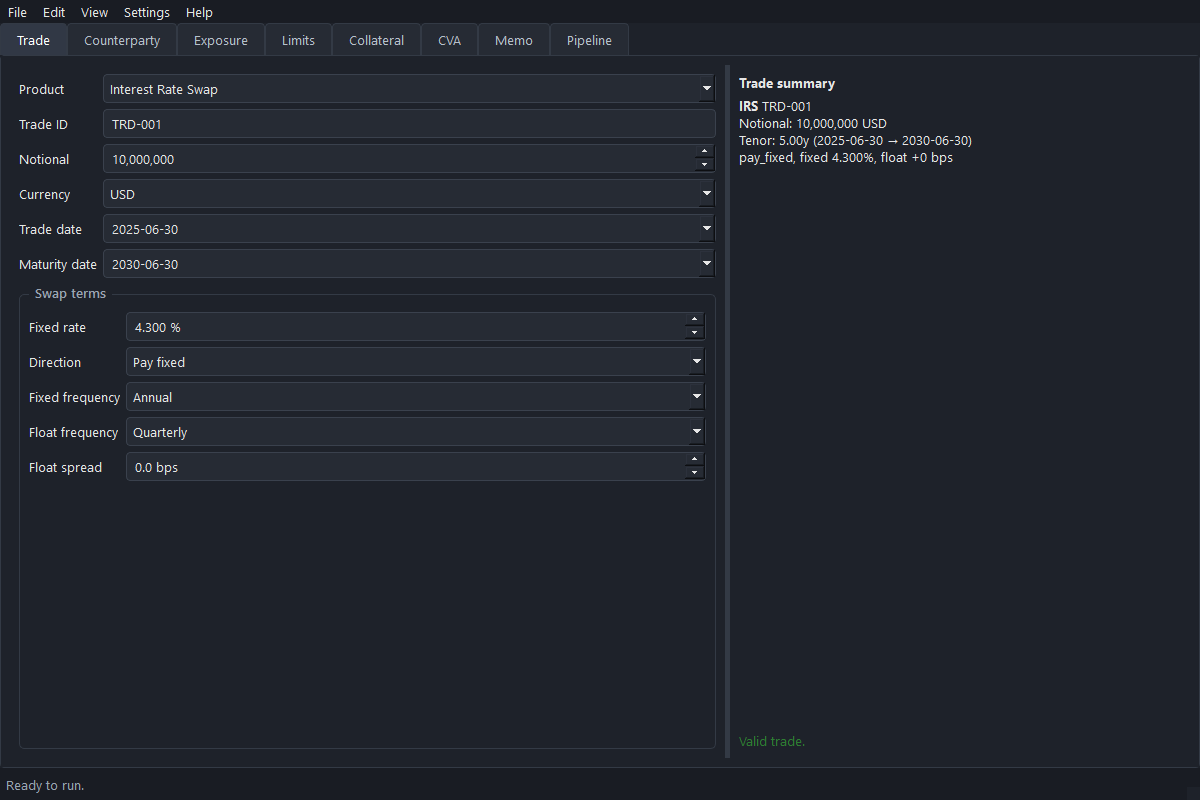
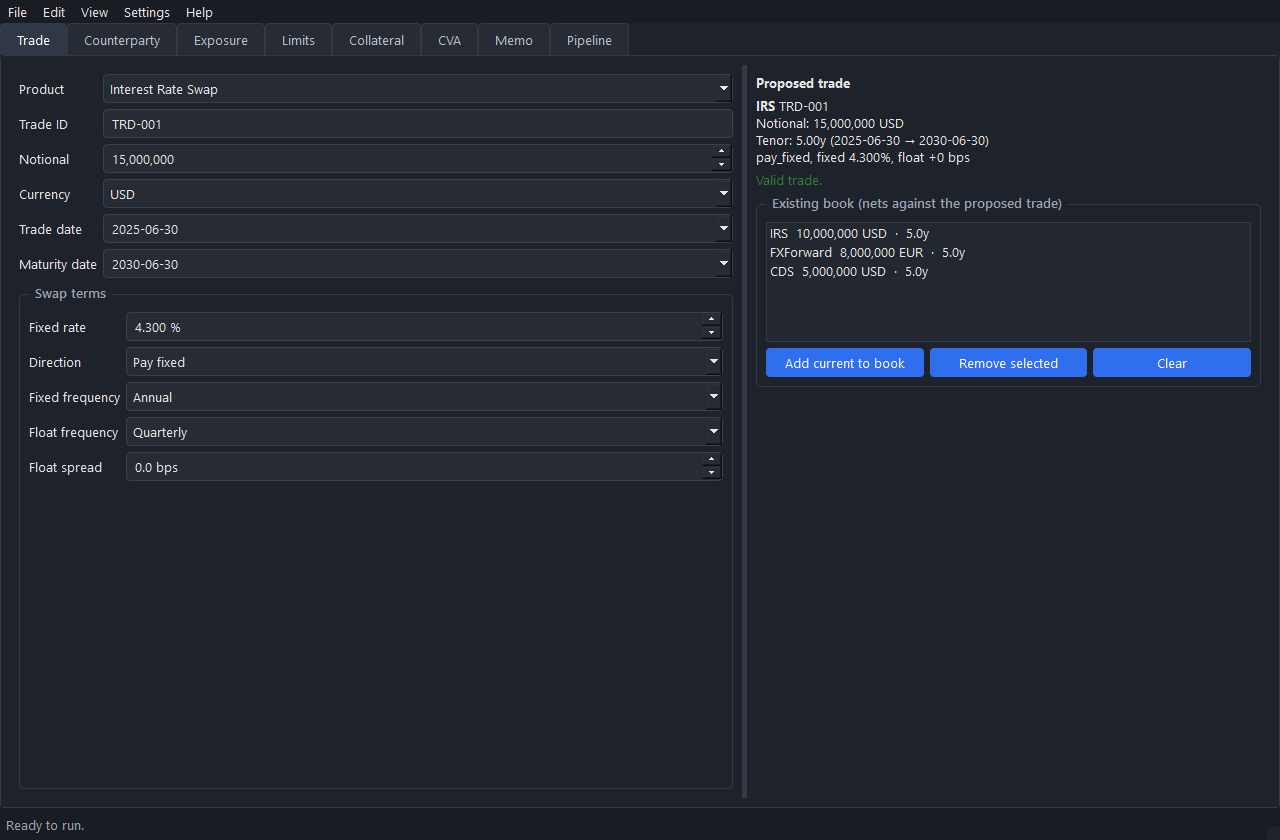
Add v2 roadmap and the existing-trades book (netting made real)
Add ROADMAP.md documenting the v2 plan toward a packaged release (portfolio book
+ scenario stress, learn mode, editable data + live financials, packaging). Ship
the first item: an existing-trades book. AppState gains a book and computes the
existing netting set from it; the Trade tab gets a book panel (add current /
remove / clear). The proposed trade now nets against a real book, so the netting
benefit and incremental peak-PFE limit logic (already built and tested) are
finally exercisable end to end from the UI. Update the Trade screenshot to show
the book.

Tests: AppState book builds the existing set; the Trade tab adds/removes book
entries; run inputs carry the book as the existing set.

Changed region(s): [[0.0, 0.0625, 0.9867, 0.9375], [0.0, 0.0, 0.5242, 0.0625], [0.0, 0.9688, 0.0617, 1.0]]

diff --git a/src/duw/ui/tabs/trade_tab.py b/src/duw/ui/tabs/trade_tab.py
@@ -26,6 +26,8 @@ from PySide6.QtWidgets import (
     QHBoxLayout,
     QLabel,
     QLineEdit,
+    QListWidget,
+    QPushButton,
     QSplitter,
     QStackedWidget,
     QVBoxLayout,
@@ -81,7 +83,10 @@ class TradeTab(QWidget):
         super().__init__()
         self._app_state = app_state
         self._build_ui()
+        if app_state is not None:
+            app_state.bookChanged.connect(self._refresh_book)
         self._refresh()
+        self._refresh_book()
 
     # -- construction ------------------------------------------------------ #
     def _build_ui(self) -> None:
@@ -126,18 +131,19 @@ class TradeTab(QWidget):
 
         summary_panel = QWidget()
         summary_layout = QVBoxLayout(summary_panel)
-        summary_layout.addWidget(QLabel("<b>Trade summary</b>"))
+        summary_layout.addWidget(QLabel("<b>Proposed trade</b>"))
         self.summary = QLabel()
         self.summary.setWordWrap(True)
         self.summary.setObjectName("trade_summary")
         summary_layout.addWidget(self.summary)
-        summary_layout.addStretch(1)
         self.status = QLabel()
         self.status.setObjectName("trade_status")
         self.status.setWordWrap(True)
         summary_layout.addWidget(self.status)
+        summary_layout.addWidget(self._build_book_box())
+        summary_layout.addStretch(1)
         splitter.addWidget(summary_panel)
-        splitter.setSizes([560, 360])
+        splitter.setSizes([560, 400])
 
         outer = QHBoxLayout(self)
         outer.addWidget(splitter)
@@ -151,6 +157,55 @@ class TradeTab(QWidget):
         self.currency.currentIndexChanged.connect(self._refresh)
         self.trade_date.dateChanged.connect(self._refresh)
         self.maturity_date.dateChanged.connect(self._refresh)
+
+    def _build_book_box(self) -> QGroupBox:
+        box = QGroupBox("Existing book (nets against the proposed trade)")
+        layout = QVBoxLayout(box)
+        self.book_list = QListWidget()
+        self.book_list.setMaximumHeight(120)
+        layout.addWidget(self.book_list)
+        row = QHBoxLayout()
+        self.add_book_btn = QPushButton("Add current to book")
+        self.remove_book_btn = QPushButton("Remove selected")
+        self.clear_book_btn = QPushButton("Clear")
+        self.add_book_btn.clicked.connect(self._on_add_to_book)
+        self.remove_book_btn.clicked.connect(self._on_remove_from_book)
+        self.clear_book_btn.clicked.connect(self._on_clear_book)
+        for btn in (self.add_book_btn, self.remove_book_btn, self.clear_book_btn):
+            row.addWidget(btn)
+        layout.addLayout(row)
+        return box
+
+    # -- book -------------------------------------------------------------- #
+    def _on_add_to_book(self) -> None:
+        trade = self.build_trade()
+        if trade is not None and self._app_state is not None:
+            self._app_state.add_to_book(trade)
+
+    def _on_remove_from_book(self) -> None:
+        row = self.book_list.currentRow()
+        if row >= 0 and self._app_state is not None:
+            self._app_state.remove_from_book(row)
+
+    def _on_clear_book(self) -> None:
+        if self._app_state is not None:
+            self._app_state.clear_book()
+
+    def _refresh_book(self) -> None:
+        trades = self._app_state.book if self._app_state is not None else []
+        self.book_list.clear()
+        for trade in trades:
+            self.book_list.addItem(self._book_label(trade))
+        has = len(trades) > 0
+        self.remove_book_btn.setEnabled(has)
+        self.clear_book_btn.setEnabled(has)
+
+    @staticmethod
+    def _book_label(trade: Trade) -> str:
+        return (
+            f"{trade.product}  {trade.notional:,.0f} {trade.currency}"
+            f"  ·  {trade.tenor_years:.1f}y"
+        )
 
     def _build_irs_page(self) -> QWidget:
         box = QGroupBox("Swap terms")
@@ -331,6 +386,7 @@ class TradeTab(QWidget):
         else:
             self.summary.setText("—")
             self.status.setText(f"<span style='color:#c62828'>{error}</span>")
+        self.add_book_btn.setEnabled(trade is not None)
         if self._app_state is not None:
             self._app_state.set_trade(trade)
 

diff --git a/tests/test_ui_tabs.py b/tests/test_ui_tabs.py
@@ -176,3 +176,63 @@ def test_run_action_enables_only_when_ready(qapp) -> None:
     state.set_trade(None)
     window._update_run_enabled()
     assert not window.run_action.isEnabled()
+
+
+# --------------------------------------------------------------------------- #
+# Existing-trades book
+# --------------------------------------------------------------------------- #
+def _sample_trade(trade_id: str = "BK1") -> IRS:
+    from datetime import date
+
+    return IRS(
+        trade_id=trade_id,
+        counterparty_id="CP001",
+        notional=5_000_000.0,
+        currency="USD",
+        trade_date=date(2025, 6, 30),
+        maturity_date=date(2030, 6, 30),
+        fixed_rate=0.04,
+        direction=SwapDirection.PAY_FIXED,
+    )
+
+
+def test_app_state_book_builds_existing_set(qapp) -> None:
+    state = AppState()
+    state.set_counterparty(state.counterparties[0])
+    assert len(state.existing_set.trades) == 0
+    trade = _sample_trade()
+    state.add_to_book(trade)
+    assert state.book == [trade]
+    # The existing netting set reflects the book and the selected counterparty.
+    assert state.existing_set.trades == (trade,)
+    assert state.existing_set.counterparty_id == state.counterparty.counterparty_id
+    state.remove_from_book(0)
+    assert state.existing_set.trades == ()
+    state.add_to_book(trade)
+    state.clear_book()
+    assert state.existing_set.trades == ()
+
+
+def test_trade_tab_add_and_remove_from_book(qapp) -> None:
+    state = AppState()
+    tab = TradeTab(state)
+    tab.notional.setValue(7_000_000.0)  # a valid trade
+    assert tab.add_book_btn.isEnabled()
+    tab._on_add_to_book()
+    assert len(state.book) == 1
+    assert tab.book_list.count() == 1  # list reflects the book via bookChanged
+    tab.book_list.setCurrentRow(0)
+    tab._on_remove_from_book()
+    assert len(state.book) == 0
+    assert tab.book_list.count() == 0
+
+
+def test_run_inputs_include_the_book(qapp) -> None:
+    state = AppState()
+    state.set_counterparty(state.counterparties[0])
+    state.set_trade(_sample_trade("PROPOSED"))
+    state.add_to_book(_sample_trade("EXISTING1"))
+    state.add_to_book(_sample_trade("EXISTING2"))
+    counterparty, existing_set, proposed = state.run_inputs()
+    assert proposed.trade_id == "PROPOSED"
+    assert [t.trade_id for t in existing_set.trades] == ["EXISTING1", "EXISTING2"]

diff --git a/src/duw/ui/app_state.py b/src/duw/ui/app_state.py
@@ -3,8 +3,8 @@
 A small :class:`QObject` that the input tabs read from and write to, so the
 main window can react to changes (e.g. enabling the Run action) without the tabs
 knowing about each other. Holds the loaded market snapshot and seed
-counterparties (offline), the currently selected counterparty and proposed
-trade, and the counterparty's existing netting set.
+counterparties (offline), the currently selected counterparty, the proposed
+trade, and the **book** of existing trades that the proposed trade nets against.
 
 Qt lives here (this is the ``ui`` package). No analytics: this module only
 carries state and emits change signals.
@@ -20,19 +20,12 @@ from duw.domain.instruments import NettingSet, Trade
 from duw.domain.market import MarketSnapshot
 
 
-def _empty_netting_set(counterparty_id: str = "") -> NettingSet:
-    return NettingSet(
-        netting_set_id=f"NS-{counterparty_id}" if counterparty_id else "NS",
-        counterparty_id=counterparty_id,
-        trades=(),
-    )
-
-
 class AppState(QObject):
     """Holds the current underwriting inputs and notifies on change."""
 
     tradeChanged = Signal(object)  # Trade | None
     counterpartyChanged = Signal(object)  # Counterparty | None
+    bookChanged = Signal()
 
     def __init__(self, snapshot: MarketSnapshot | None = None) -> None:
         super().__init__()
@@ -40,8 +33,9 @@ class AppState(QObject):
         self.counterparties: list[Counterparty] = load_seed_counterparties()
         self.trade: Trade | None = None
         self.counterparty: Counterparty | None = None
-        self.existing_set: NettingSet = _empty_netting_set()
+        self.book: list[Trade] = []
 
+    # -- proposed trade / counterparty ------------------------------------- #
     def set_trade(self, trade: Trade | None) -> None:
         """Set (or clear) the proposed trade and notify listeners."""
         self.trade = trade
@@ -50,11 +44,37 @@ class AppState(QObject):
     def set_counterparty(self, counterparty: Counterparty | None) -> None:
         """Set (or clear) the selected counterparty and notify listeners."""
         self.counterparty = counterparty
-        self.existing_set = _empty_netting_set(
-            counterparty.counterparty_id if counterparty else ""
-        )
         self.counterpartyChanged.emit(counterparty)
 
+    # -- existing-trades book ---------------------------------------------- #
+    @property
+    def existing_set(self) -> NettingSet:
+        """The counterparty's book of existing trades as a netting set."""
+        cid = self.counterparty.counterparty_id if self.counterparty else ""
+        return NettingSet(
+            netting_set_id=f"NS-{cid}" if cid else "NS",
+            counterparty_id=cid,
+            trades=tuple(self.book),
+        )
+
+    def add_to_book(self, trade: Trade) -> None:
+        """Add an existing trade to the book."""
+        self.book.append(trade)
+        self.bookChanged.emit()
+
+    def remove_from_book(self, index: int) -> None:
+        """Remove the book trade at ``index`` (no-op if out of range)."""
+        if 0 <= index < len(self.book):
+            del self.book[index]
+            self.bookChanged.emit()
+
+    def clear_book(self) -> None:
+        """Empty the book."""
+        if self.book:
+            self.book.clear()
+            self.bookChanged.emit()
+
+    # -- run readiness ----------------------------------------------------- #
     def is_ready(self) -> bool:
         """Whether both a valid trade and counterparty are selected."""
         return self.trade is not None and self.counterparty is not None

diff --git a/ROADMAP.md b/ROADMAP.md
@@ -1,0 +1,61 @@
+# Roadmap
+
+The v1 (below) reconstructs the full counterparty-credit underwriting workflow.
+**v2** turns it into a genuinely useful learning and scenario-testing tool with
+a packaged, downloadable release. Everything stays within the honest framing:
+educational, synthetic/public data, simplified methodologies — not a production
+risk system.
+
+## v1 — shipped
+
+Trade → counterparty credit (Merton / Altman / rating) → Monte Carlo exposure
+(EE / EPE / PFE) → collateral (CSA) → CVA / DVA / BCVA → limit check →
+underwriting memo (HTML / PDF / PPTX) → deal pipeline. PySide6 desktop UI,
+background worker, reproducible runs, 139 headless tests, CI on Python 3.11/3.12.
+
+## v2 — toward a packaged release
+
+Sequenced by impact. Each item keeps the gates green (ruff + headless pytest +
+CI) and ships with tests.
+
+### 1. Portfolio book + scenario stress testing
+
+- **Existing-trades book.** Build a real netting set of existing trades in the
+  UI so the netting benefit and *incremental* limit logic (already implemented
+  and tested) actually work end to end, instead of always starting from an empty
+  book. This is the single biggest jump in usefulness.
+- **Scenario stress testing.** Apply market shocks — parallel rate shift, curve
+  steepen / flatten, FX move, credit-spread widening — and re-run to compare
+  base vs stressed exposure, CVA, and limit utilization side by side. The core
+  "scenario sandbox" and the most analyst-real feature.
+
+### 2. Learn mode + guided examples
+
+- Inline explanations of every metric (EE, EPE, PFE, CVA / DVA, DtD, CSA, MPoR)
+  via info tooltips and a glossary panel.
+- A set of ready-made example deals (investment-grade swap, distressed CDS, a
+  breaching trade, a collateralized book) and a short first-run walkthrough, so
+  the app is self-teaching for someone new to the workflow.
+
+### 3. Editable market data + live financials
+
+- In-app curve / FX / credit-spread editor so users test their own market
+  scenarios and see how the drivers move exposure and CVA.
+- Wire the existing (offline-safe) yfinance pull into the counterparty tab so a
+  real public-company ticker can populate the financials for Merton / Altman,
+  always degrading to synthetic data.
+
+### 4. Packaged release
+
+- A working PyInstaller build (bundling QtWebEngine and the synthetic data is
+  the tricky part), verified to launch and run a full analysis.
+- Windows `.msi` and macOS `.dmg` per [PACKAGING.md](PACKAGING.md); code signing
+  and notarization remain a documented follow-up.
+
+## Beyond v2
+
+Deliberately deferred extension points: wrong-way risk in exposure and CVA;
+additional products (cross-currency swaps, swaptions, options); funding and
+other XVA terms; multi-currency collateral; exposure/CVA sensitivities
+(DV01 / CS01); richer curve construction; and code-signed, auto-updating
+release builds.